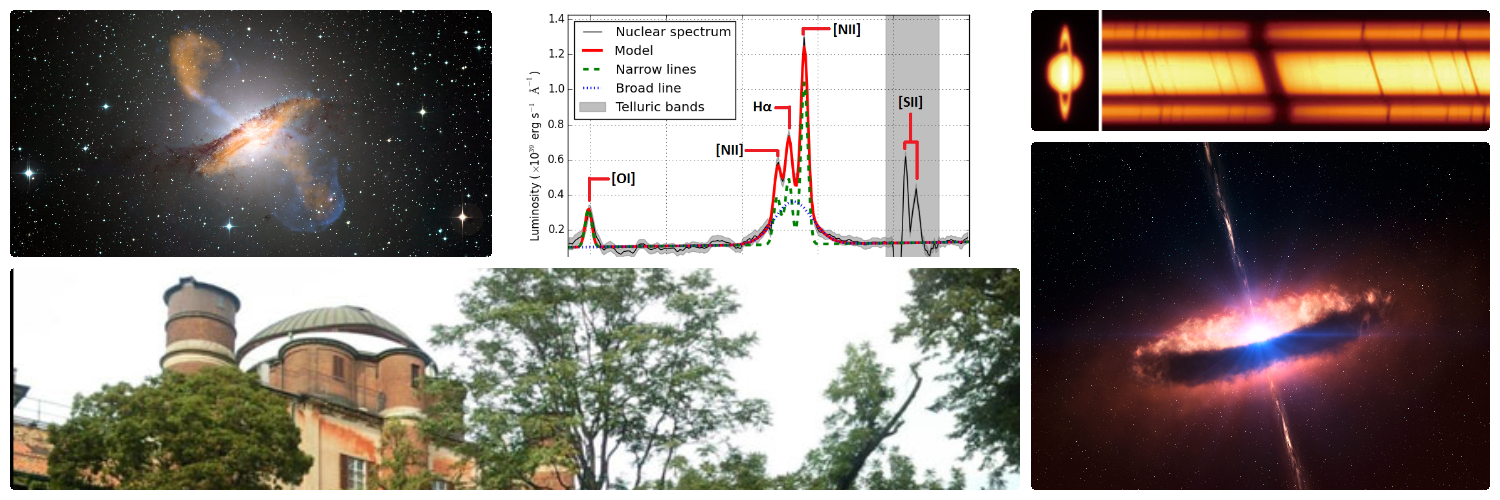
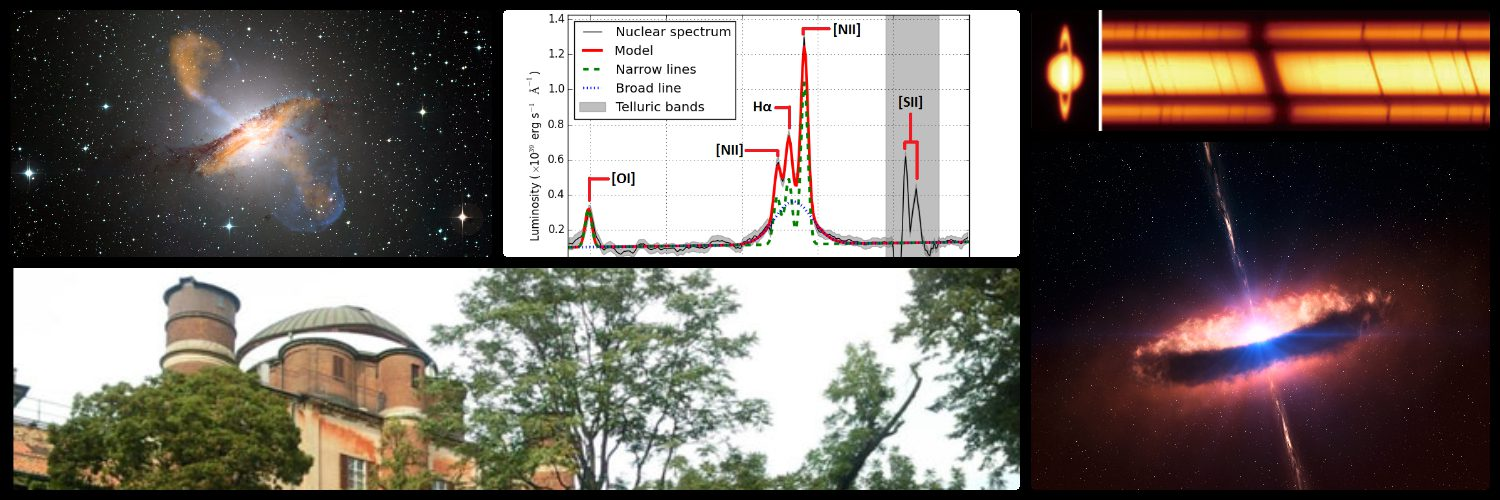
Update

Changed region(s): [[0.0, 0.0, 1.0, 1.0], [0.5827, 0.27, 0.6133, 0.3], [0.3987, 0.33, 0.4293, 0.36]]

diff --git a/_includes/person-jsonld.html b/_includes/person-jsonld.html
@@ -1,0 +1,34 @@
+{%- comment -%}
+  schema.org Person markup for the home page, so search engines can connect the
+  name with the job, education and profiles. Built from _data/profile.yml.
+{%- endcomment -%}
+{%- assign p = site.data.profile -%}
+{%- assign email = p.links | where: "icon", "mail" | first -%}
+<script type="application/ld+json">
+{
+  "@context": "https://schema.org",
+  "@type": "Person",
+  "@id": {{ site.url | append: "/#person" | jsonify }},
+  "name": {{ p.name | jsonify }},
+  "honorificSuffix": {{ p.honorific | jsonify }},
+  "jobTitle": {{ p.role | jsonify }},
+  "description": {{ site.description | jsonify }},
+  "url": {{ site.url | append: "/" | jsonify }},
+  "image": {{ site.url | append: p.photo | jsonify }},
+  "email": {{ email.url | jsonify }},
+  "address": { "@type": "PostalAddress", "addressLocality": "Madrid", "addressCountry": "ES" },
+  "worksFor": { "@type": "Organization", "name": {{ p.company | jsonify }}, "url": {{ site.data.experience[0].url | jsonify }} },
+  "alumniOf": [
+    {%- for e in site.data.education %}
+    { "@type": "EducationalOrganization", "name": {{ e.alumni_of | default: e.school | jsonify }}{% if e.url %}, "url": {{ e.url | jsonify }}{% endif %} }{% unless forloop.last %},{% endunless %}
+    {%- endfor %}
+  ],
+  "knowsAbout": {{ p.focus | jsonify }},
+  "hasCredential": [
+    {%- for c in site.data.skills.certifications %}
+    { "@type": "EducationalOccupationalCredential", "name": {{ c.name | jsonify }}, "url": {{ c.url | jsonify }} }{% unless forloop.last %},{% endunless %}
+    {%- endfor %}
+  ],
+  "sameAs": {{ p.same_as | jsonify }}
+}
+</script>

diff --git a/_includes/head.html b/_includes/head.html
@@ -1,6 +1,7 @@
 <meta charset="utf-8">
 <meta name="viewport" content="width=device-width, initial-scale=1">
 {% seo %}
+{%- if page.url == "/" %}{% include person-jsonld.html %}{% endif %}
 <meta name="color-scheme" content="light dark">
 <meta name="theme-color" content="#f7f6f2" media="(prefers-color-scheme: light)">
 <meta name="theme-color" content="#0e1720" media="(prefers-color-scheme: dark)">
